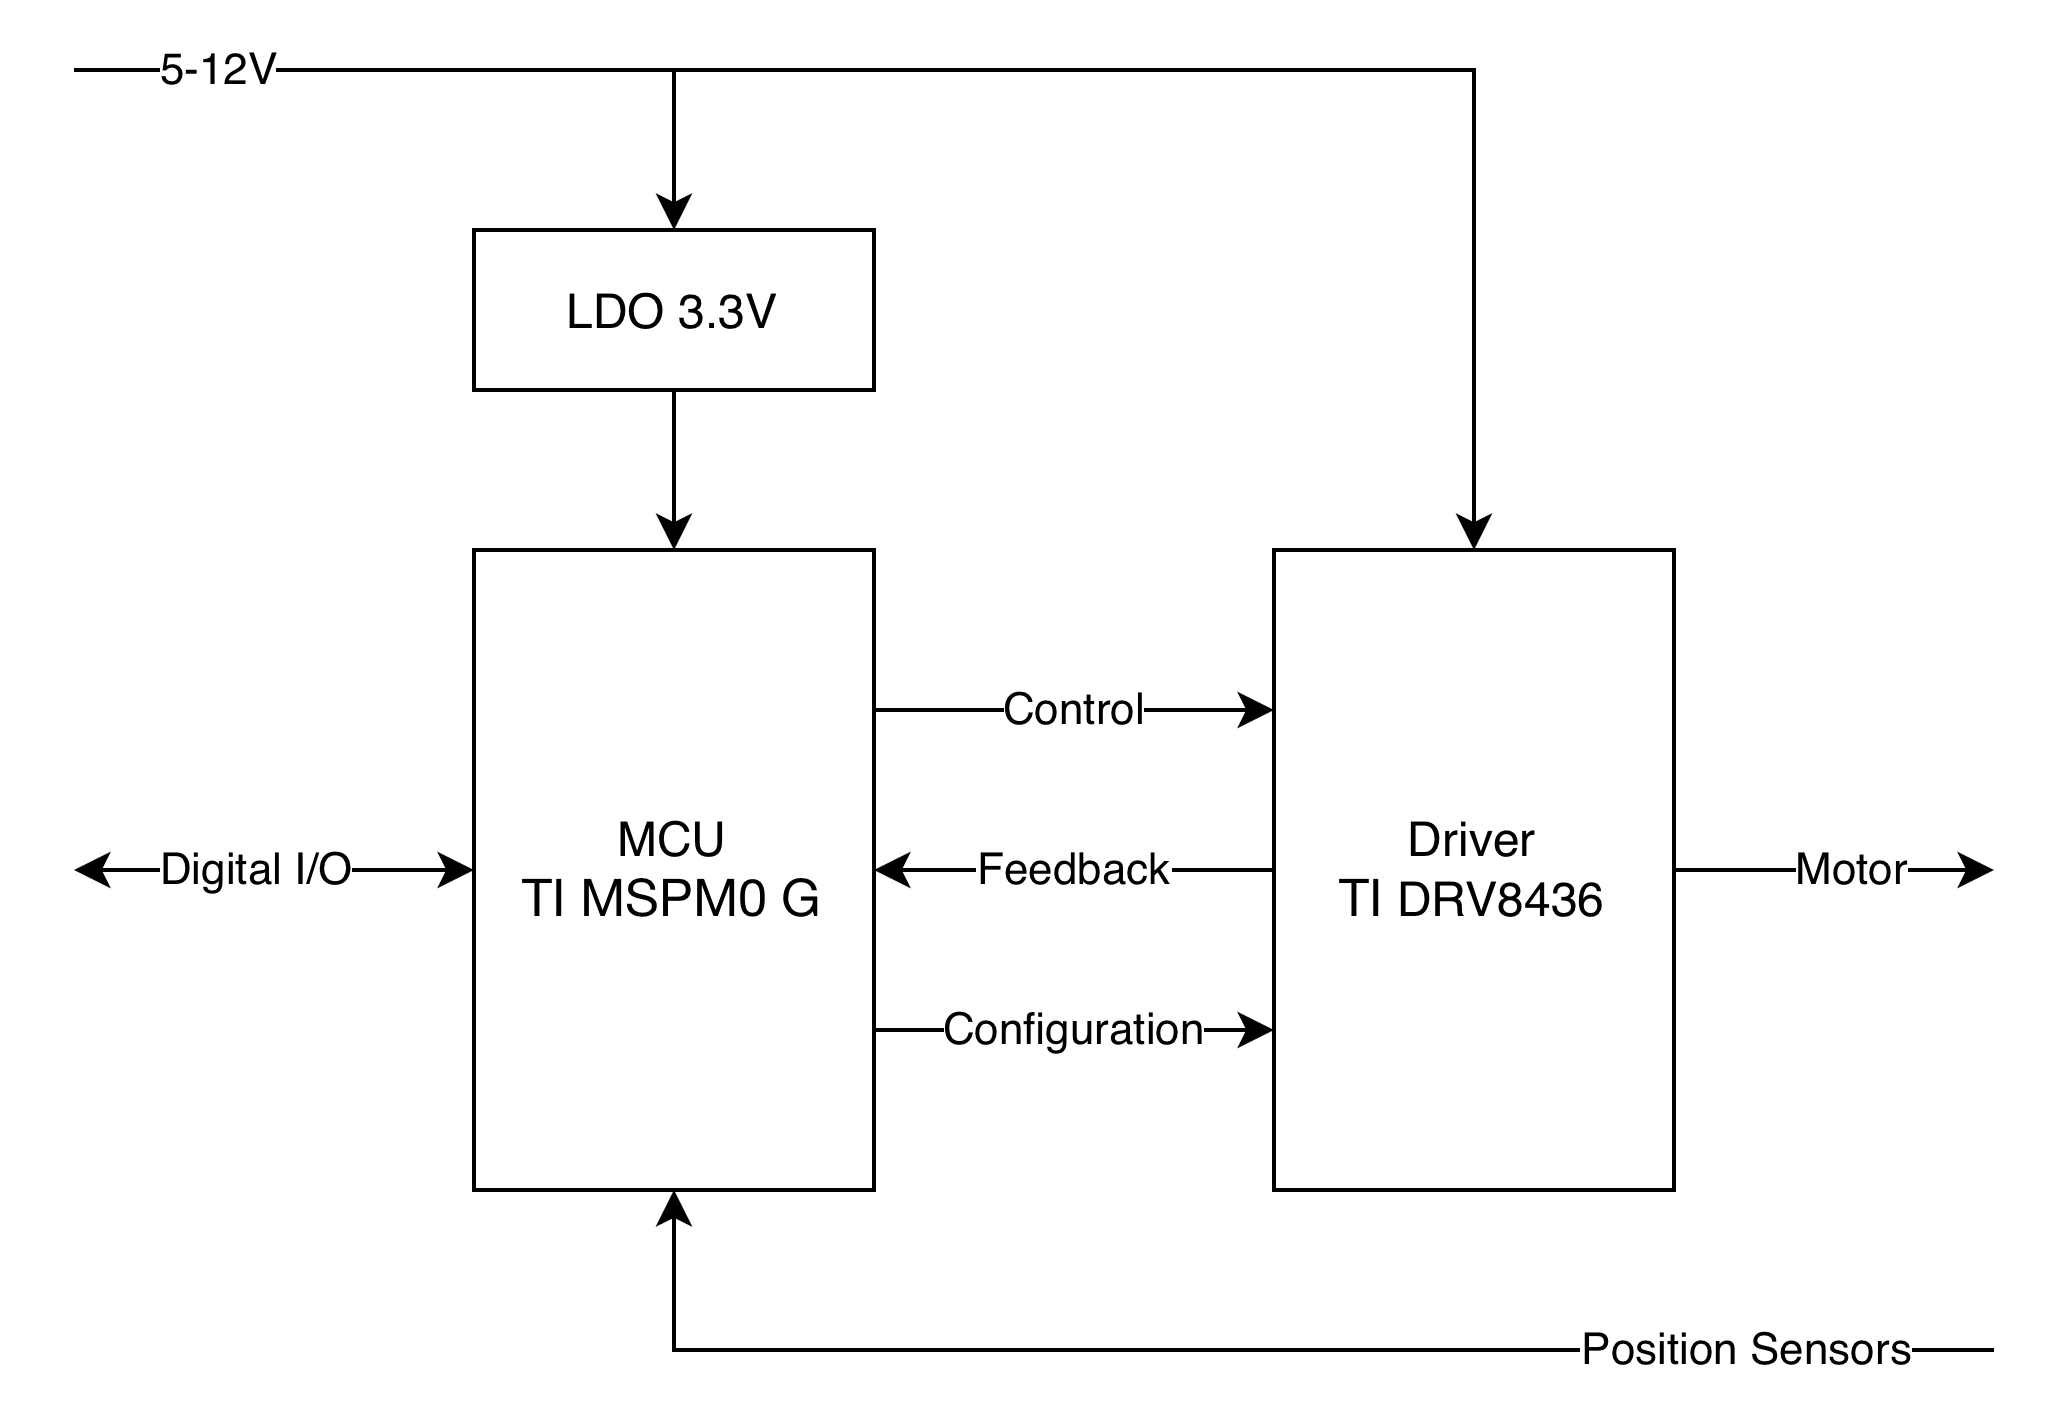
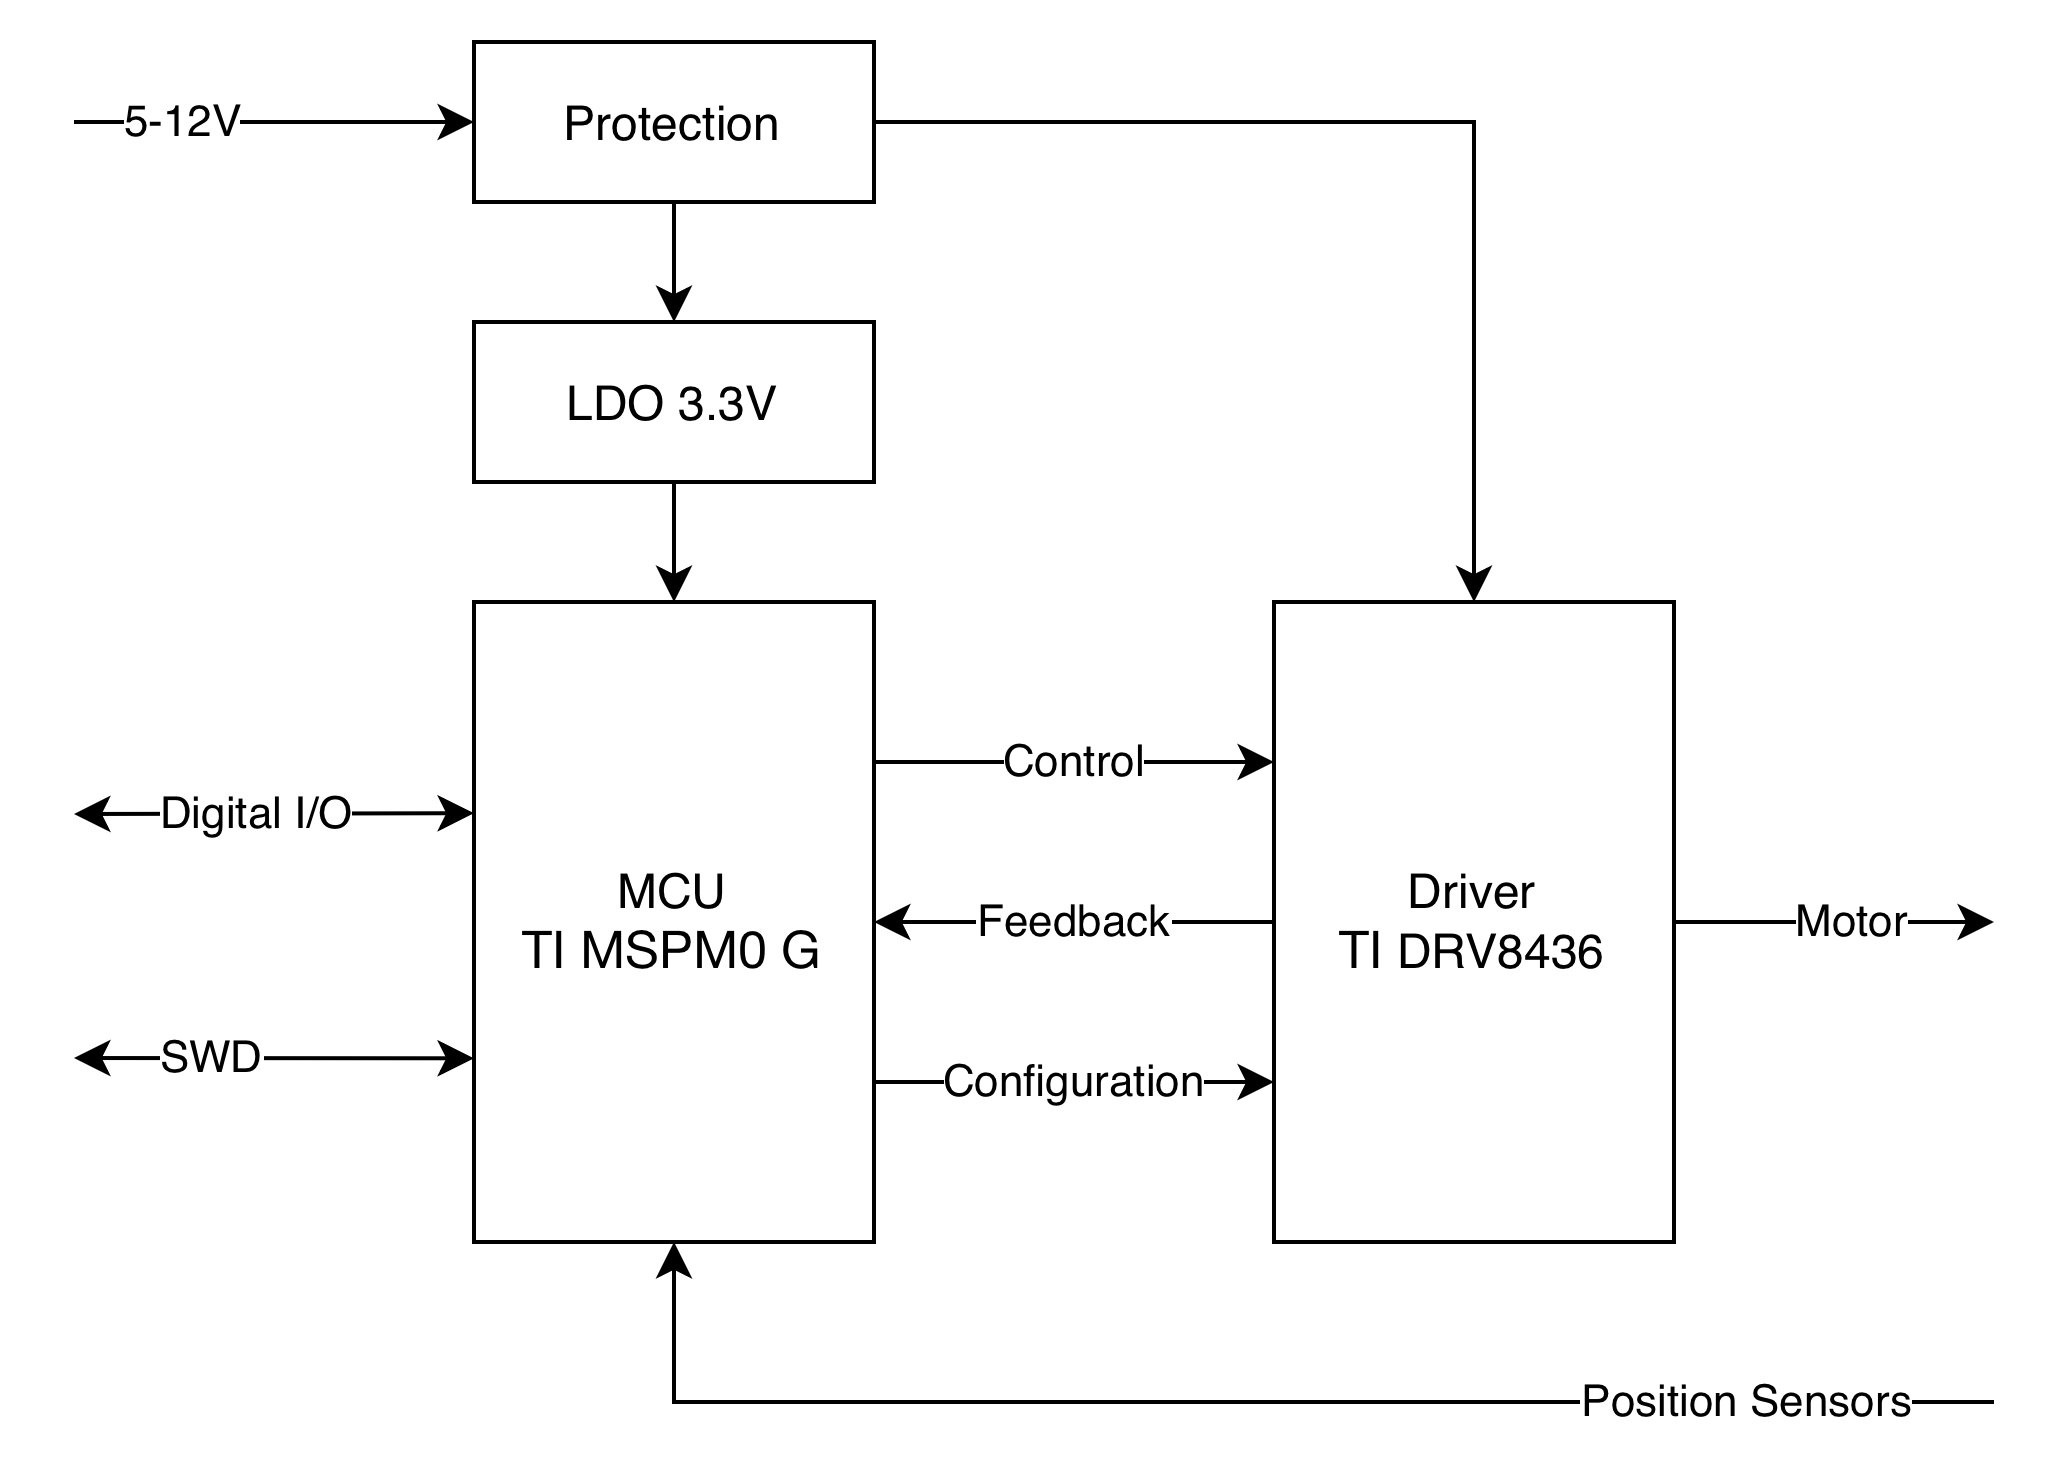
Add more details to PCB Design Idea section

diff --git a/01-Design.md b/01-Design.md
@@ -6,8 +6,36 @@ This section covers initial component selection and schematic capture, supported
 
 ## Architectural Idea
 
-Every design starts with a conceptual idea. For this guide, our objective is to build a flexible, smart bipolar stepper motor driver. We'll leverage a budget-friendly MSPM0G1505 microcontroller to run the smart logic, paired with the popular Texas Instruments DRV8436 stepper driver to manage the heavy lifting at the motor coils.
+Every design starts with a conceptual idea. For this guide, our objective is to build a flexible, smart bipolar stepper motor driver. We'll leverage a budget-friendly [MSPM0G1505](https://www.ti.com/product/MSPM0G1505) microcontroller to run the smart logic, paired with the popular Texas Instruments [DRV8436](https://www.ti.com/product/DRV8436) stepper driver to manage the heavy lifting at the motor coils.
 
 Since both chips are complex, jumping straight into the schematic can be overwhelming. Instead, we'll start by sketching a high-level block diagram in an editor like draw.io. This step allows us to map out features, define peripheral connections, and solidify our design requirements early on.
 
 <img src="./Idea.png" alt="Architectural Idea Diagram" width="480">
+
+While a block diagram can sometimes be skipped for trivial designs, creating one for this project keeps the "big picture" in focus while explicitly listing every feature we need to implement:
+
+* **MCU Driver Control:** The microcontroller manages the stepper driver using the standard digital control lines: `ENABLE`, `DIR`, `STEP`, and an active-low `nSLEEP` signal.
+* **Diagnostic Feedback:** To monitor system health, the MCU tracks the driver's open-drain `nFAULT` line and samples the internal logic voltage (`DVDD`) via an internal ADC channel.
+* **Driver Configuration:** The hardware allows full customization of the driver's behavior. The MCU sets the microstepping resolution via `M0` and `M1`, configures the decay mode and off-time (`DECAY0`, `DECAY1`, `TOFF`), and limits the chopping current by feeding a reference voltage (`VREF`) from an onboard DAC.
+* **Power Delivery:** The device can be protected from overvoltage with TVS diode, from overcurrent with resetable fuse, and frome reverse polarity with MOSFET. The stepper driver runs directly off the main power rail, while a 3.3V DC/DC converter provides a dedicated supply for the microcontroller and logic circuitry.
+* **External Communication & Debugging:** For external control and programming, the MCU exposes a UART interface alongside a standard 2-pin SWD (Serial Wire Debug) port.
+* **Position & Endstop Sensing:** To support homing or position tracking, the MCU includes two dedicated input ports for external photointerrupters.
+
+It is critical to thoroughly understand the implementation requirements of each featured block. If any part of the circuit introduces an unknown - whether it is an unfamiliar interface or you aren't sure about a part's behavior in given conditions - pause and investigate. Often, these doubts can be cleared up simply by carefully rereading the component's datasheet or analyzing a manufacturer's reference design. When documentation isn't enough, taking a brief detour to validate the circuit through a simulation or a small prototype is essential. Catching a design flaw early on a test bench is a minor adjustment; catching it after a manufacturing run means an expensive, time-consuming spin of the board.
+
+Let's double-check our feature requirements to ensure there are no lingering unknowns:
+
+* **Driver Control:** `DIR`, `STEP`, and `nSLEEP` are standard logic-level inputs with a 0–0.6V logic-low and 1.5–5V logic-high range, allowing direct connection to the MCU's GPIOs. `ENABLE` is a tri-level input internally pulled to `DVDD` via a 10µA current source and tied to GND by a 200kΩ resistor; because its voltage never exceeds 2V, it is perfectly safe to connect directly to a 3.3V MCU GPIO. This block consumes **4 GPIO pins**.
+* **Diagnostic Feedback:** `nFAULT` is an open-drain output that can be pulled up to 3.3V and connected directly to an MCU input. The `DVDD` voltage can be monitored by the MCU's ADC using an internal Op-Amp (OPA) configured as a buffer to match impedance across a resistor divider. This block requires **1 GPIO pin and 1 ADC/OPA input pin**.
+* **Driver Configuration:** `M0`, `DECAY0`, and `DECAY1` are tri-level inputs consuming 3 pins. `M1` and `TOFF` are quad-level inputs; to achieve four distinct states using digital logic, they each require a pair of pins. Finally, 1 DAC output pin is needed to drive the stepper's analog `VREF` (0–3.3V) line. This block consumes **7 MCU pins**.
+* **Power Delivery:** The input protection circuit is straightforward: a reverse-polarity protection MOSFET will use a Zener diode to clamp its gate-source voltage, ensuring safety since standard MOSFET gates cannot handle the full 12V motor supply rail. For the 3.3V logic rail, an LDO (such as the AP2210K-3.3) is perfectly adequate. The total current budget for the MCU and status LEDs should not exceed 25mA. With a 12V input, the LDO dissipates roughly 220mW, which is well within safe operating limits for standard ambient temperatures.
+* **External Communication & Debugging:** Programming and debugging are handled via a standard 3-pin setup (`NRST`, `SWDIO`, and `SWCLK`). External UART communication takes an additional pair of MCU pins, ideally chosen to be 5V-tolerant for easier interfacing. This block consumes **4 assignable pins and NRST**.
+* **Position & Endstop Sensing:** Each of the two photointerrupters requires one high-drive GPIO pin to power its IR LED and one input pin to read the sensor output, consuming **4 GPIO pins** in total.
+
+Summing up our pin allocation gives us exactly what we need:
+
+Total Pins = 4 (Control) + 2 (Feedback) + 7 (Config) + 4 (Communication)} + 4 (Sensors) = 21 pins
+
+With 21 functional pins allocated out of the 24 available on our target MCU package, we have verified that the microcontroller has exactly the right peripheral mix and a safe margin of 3 spare GPIOs.
+
+The electrical specifications align seamlessly, the power budget is well within thermal limits, and our pin mapping checks out perfectly. We can move forward into the schematic capture phase.